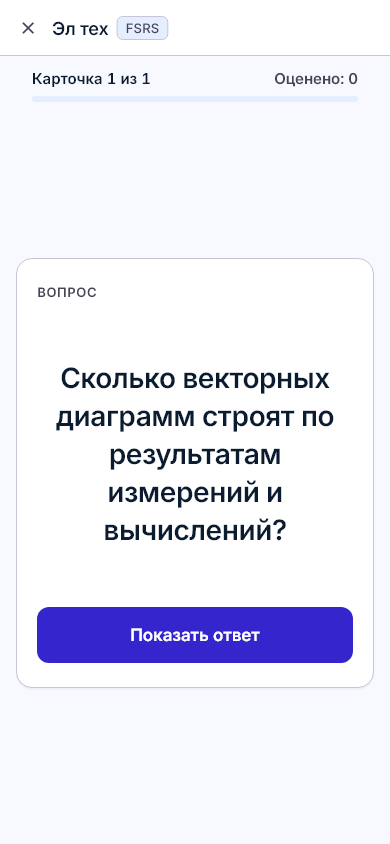
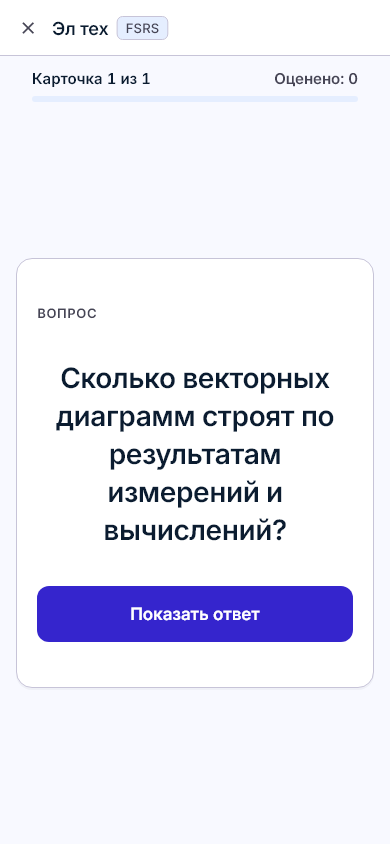
fix(ui): spaceEvenly в карточке и ленте — пустая полоса 18-21 % вместо 30-45 %
Ответ на повторный аудит v9 (G3/G8/G10):
- карточка сессии: свободная высота делится spaceEvenly на четыре промежутка
  (было spaceBetween на два) — самая длинная сплошная пустая полоса 29,6 %
  -> 17,4-18,3 % даже у короткого вопроса (было 33-35 %);
- лента: карточка того же размера, что «Классика» (мин. 430 x множитель),
  надзаголовок «ВОПРОС» на лицевой стороне, содержимое распределяется
  spaceEvenly; при высоте окна < 330 скрыта нижняя панель и подсказка о свайпах
  (карточка больше не схлопывается в 0), подсказка не дублирует панель оценок;
- evidence обновлён числами финального снимка.

Changed region(s): [[0.0923, 0.6777, 0.9231, 0.8009], [0.0923, 0.3389, 0.2462, 0.4005]]

diff --git a/lib/ui/review/feed_card_view.dart b/lib/ui/review/feed_card_view.dart
@@ -187,7 +187,13 @@ class _FeedCardViewState extends State<FeedCardView>
           constraints.maxWidth,
           AppSizes.studyCardMaxWidth,
         );
-        final double height = constraints.maxHeight;
+        // Аудит v9 (G3/G8): карточка ленты того же размера, что «Классика»,
+        // — не растягивается на всю область (иначе до 45 % высоты — белое поле).
+        final double factor = AppAdaptive.factorForContext(context);
+        final double height = math.min(
+          constraints.maxHeight,
+          AppSizes.studyCardMinHeight * factor,
+        );
         _width = width;
         return AnimatedBuilder(
           animation: _swipe,
@@ -384,103 +390,138 @@ class _FlipFace extends StatelessWidget {
               key: const ValueKey<String>('feed-card-flip-transform'),
               alignment: Alignment.center,
               transform: transform,
-              child: SingleChildScrollView(
-                controller: scroll,
-                padding: const EdgeInsets.symmetric(
-                  horizontal: AppSpacing.xxl,
-                  vertical: AppSpacing.xl,
-                ),
-                child: Column(
-                  mainAxisSize: MainAxisSize.min,
-                  crossAxisAlignment: CrossAxisAlignment.stretch,
-                  children: <Widget>[
-                    // Аудит v4 (V22) + v5 (V5-11): оборот сохраняет вопрос-эхо,
-                    // как в «Классике», — контекст не теряется после переворота.
-                    if (showBack) ...<Widget>[
-                      Align(
-                        alignment: AlignmentDirectional.centerStart,
-                        child: Text(
-                          l10n.reviewQuestionLabel.toUpperCase(),
-                          style: AppTypography.overline(context),
-                        ),
-                      ),
-                      const SizedBox(height: AppSpacing.xs),
-                      card == null
-                          ? Text(
-                              front,
-                              textAlign: TextAlign.center,
-                              style: theme.textTheme.titleSmall?.copyWith(
-                                fontSize: math.max(16, 18 * factor),
-                                height: 1.4,
-                                color: scheme.onSurfaceVariant,
+              // Аудит v9 (G3/G8): свободная высота карточки распределяется
+              // между элементами (spaceEvenly), а не собирается в одну сплошную
+              // белую полосу посередине.
+              child: LayoutBuilder(
+                builder: (BuildContext context, BoxConstraints constraints) {
+                  const EdgeInsets padding = EdgeInsets.symmetric(
+                    horizontal: AppSpacing.xxl,
+                    vertical: AppSpacing.xl,
+                  );
+                  final double minContentHeight = math.max(
+                    0,
+                    constraints.maxHeight - padding.vertical,
+                  );
+                  return SingleChildScrollView(
+                    controller: scroll,
+                    padding: padding,
+                    child: ConstrainedBox(
+                      constraints: BoxConstraints(minHeight: minContentHeight),
+                      child: Column(
+                        mainAxisSize: MainAxisSize.min,
+                        mainAxisAlignment: MainAxisAlignment.spaceEvenly,
+                        crossAxisAlignment: CrossAxisAlignment.stretch,
+                        children: <Widget>[
+                          // Аудит v9 (G11): надзаголовок стороны виден и на
+                          // лицевой стороне — как в карточке «Классики», и
+                          // делит пустоту на две части вместо одной (G3/G8).
+                          if (!showBack)
+                            Align(
+                              alignment: AlignmentDirectional.centerStart,
+                              child: Text(
+                                l10n.reviewQuestionLabel.toUpperCase(),
+                                style: AppTypography.overline(context),
                               ),
-                            )
-                          : CardContentView(
-                              card: card!,
-                              side: front,
-                              revealed: true,
-                              faceKey: const ValueKey<String>('feed-card-echo'),
-                              questionStyle: theme.textTheme.titleSmall
-                                  ?.copyWith(
-                                    fontSize: math.max(16, 18 * factor),
-                                    height: 1.4,
-                                    color: scheme.onSurfaceVariant,
-                                  ),
-                              answerStyle: theme.textTheme.titleSmall?.copyWith(
-                                fontSize: math.max(16, 18 * factor),
-                                height: 1.4,
-                                color: scheme.onSurfaceVariant,
-                              ),
-                              mediaBytes: mediaBytes,
-                              mediaMetadata: mediaMetadata,
-                              onRetryMedia: onRetryMedia,
-                              showMedia: false,
                             ),
-                      Padding(
-                        padding: const EdgeInsets.symmetric(
-                          vertical: AppSpacing.md,
-                        ),
-                        child: Divider(height: 1, color: scheme.outlineVariant),
-                      ),
-                    ],
-                    Align(
-                      alignment: AlignmentDirectional.centerStart,
-                      child: Text(
-                        (showBack
-                                ? l10n.reviewAnswerLabel
-                                : l10n.reviewQuestionLabel)
-                            .toUpperCase(),
-                        style: AppTypography.overline(
-                          context,
-                          color: showBack
-                              ? scheme.primary
-                              : scheme.onSurfaceVariant,
-                        ),
+                          // Аудит v4 (V22) + v5 (V5-11): оборот сохраняет вопрос-эхо,
+                          // как в «Классике», — контекст не теряется после переворота.
+                          if (showBack) ...<Widget>[
+                            Align(
+                              alignment: AlignmentDirectional.centerStart,
+                              child: Text(
+                                l10n.reviewQuestionLabel.toUpperCase(),
+                                style: AppTypography.overline(context),
+                              ),
+                            ),
+                            const SizedBox(height: AppSpacing.xs),
+                            card == null
+                                ? Text(
+                                    front,
+                                    textAlign: TextAlign.center,
+                                    style: theme.textTheme.titleSmall?.copyWith(
+                                      fontSize: math.max(16, 18 * factor),
+                                      height: 1.4,
+                                      color: scheme.onSurfaceVariant,
+                                    ),
+                                  )
+                                : CardContentView(
+                                    card: card!,
+                                    side: front,
+                                    revealed: true,
+                                    faceKey: const ValueKey<String>(
+                                      'feed-card-echo',
+                                    ),
+                                    questionStyle: theme.textTheme.titleSmall
+                                        ?.copyWith(
+                                          fontSize: math.max(16, 18 * factor),
+                                          height: 1.4,
+                                          color: scheme.onSurfaceVariant,
+                                        ),
+                                    answerStyle: theme.textTheme.titleSmall
+                                        ?.copyWith(
+                                          fontSize: math.max(16, 18 * factor),
+                                          height: 1.4,
+                                          color: scheme.onSurfaceVariant,
+                                        ),
+                                    mediaBytes: mediaBytes,
+                                    mediaMetadata: mediaMetadata,
+                                    onRetryMedia: onRetryMedia,
+                                    showMedia: false,
+                                  ),
+                            Padding(
+                              padding: const EdgeInsets.symmetric(
+                                vertical: AppSpacing.md,
+                              ),
+                              child: Divider(
+                                height: 1,
+                                color: scheme.outlineVariant,
+                              ),
+                            ),
+                          ],
+                          Align(
+                            alignment: AlignmentDirectional.centerStart,
+                            child: Text(
+                              (showBack
+                                      ? l10n.reviewAnswerLabel
+                                      : l10n.reviewQuestionLabel)
+                                  .toUpperCase(),
+                              style: AppTypography.overline(
+                                context,
+                                color: showBack
+                                    ? scheme.primary
+                                    : scheme.onSurfaceVariant,
+                              ),
+                            ),
+                          ),
+                          const SizedBox(height: AppSpacing.sm),
+                          card == null
+                              ? Text(
+                                  showBack ? back : front,
+                                  key: const ValueKey<String>('feed-card-face'),
+                                  textAlign: TextAlign.center,
+                                  style: showBack ? answerStyle : questionStyle,
+                                )
+                              : CardContentView(
+                                  card: card!,
+                                  side: showBack ? back : front,
+                                  revealed: showBack,
+                                  faceKey: const ValueKey<String>(
+                                    'feed-card-face',
+                                  ),
+                                  questionStyle: questionStyle,
+                                  answerStyle: answerStyle,
+                                  mediaBytes: mediaBytes,
+                                  mediaMetadata: mediaMetadata,
+                                  onRetryMedia: onRetryMedia,
+                                  imageMaxHeight: 340,
+                                  imageMaxWidth: 760,
+                                ),
+                        ],
                       ),
                     ),
-                    const SizedBox(height: AppSpacing.sm),
-                    card == null
-                        ? Text(
-                            showBack ? back : front,
-                            key: const ValueKey<String>('feed-card-face'),
-                            textAlign: TextAlign.center,
-                            style: showBack ? answerStyle : questionStyle,
-                          )
-                        : CardContentView(
-                            card: card!,
-                            side: showBack ? back : front,
-                            revealed: showBack,
-                            faceKey: const ValueKey<String>('feed-card-face'),
-                            questionStyle: questionStyle,
-                            answerStyle: answerStyle,
-                            mediaBytes: mediaBytes,
-                            mediaMetadata: mediaMetadata,
-                            onRetryMedia: onRetryMedia,
-                            imageMaxHeight: 340,
-                            imageMaxWidth: 760,
-                          ),
-                  ],
-                ),
+                  );
+                },
               ),
             ),
           );

diff --git a/lib/ui/review/feed_session_screen.dart b/lib/ui/review/feed_session_screen.dart
@@ -572,7 +572,11 @@ class _FeedSessionScreenState extends ConsumerState<FeedSessionScreen>
         // оценки, ни клавиатурных эквивалентов для видимых действий.
         // Аудит v4 (V25): одновременно с подсказкой панели оценок эта строка не
         // показывается — одна подсказка на состояние.
-        if (state.current?.revealed ?? false)
+        // Подсказка о свайпах дублировала панель оценок (G5) и вместе с ней
+        // отнимала у карточки место на низком окне (G10) — только одна строка
+        // подсказки и только пока панели нет.
+        if (!(state.current?.revealed ?? false) &&
+            MediaQuery.sizeOf(context).height >= 330)
           Padding(
             padding: const EdgeInsets.fromLTRB(
               AppSpacing.md,
@@ -582,8 +586,10 @@ class _FeedSessionScreenState extends ConsumerState<FeedSessionScreen>
             ),
             child: Center(
               child: ConstrainedBox(
-                constraints: const BoxConstraints(
-                  maxWidth: AppSizes.studyCardMaxWidth,
+                constraints: BoxConstraints(
+                  maxWidth: AppSizes.studyCardWidth(
+                    MediaQuery.sizeOf(context).width,
+                  ),
                 ),
                 child: Text(
                   l10n.feedRateHint,
@@ -606,18 +612,21 @@ class _FeedSessionScreenState extends ConsumerState<FeedSessionScreen>
             compact: compactHeight,
             onRating: (Rating rating) => unawaited(_rate(rating)),
           ),
-        _FeedBottomBar(
-          compact: compactHeight,
-          deckName: _deck?.name,
-          deckCount: _deckCount,
-          position: state.index + 1,
-          total: state.total,
-          intervalSeconds: _autoAdvanceInterval.inSeconds,
-          paused: _autoAdvancePaused,
-          onIntervalChanged: _setAutoAdvance,
-          onTogglePause: _togglePause,
-          l10n: l10n,
-        ),
+        // Совсем низкое окно: нижняя панель ленты отнимает всю высоту у
+        // карточки (аудит v9, G10 — карточка схлопывалась в 0).
+        if (MediaQuery.sizeOf(context).height >= 330)
+          _FeedBottomBar(
+            compact: compactHeight,
+            deckName: _deck?.name,
+            deckCount: _deckCount,
+            position: state.index + 1,
+            total: state.total,
+            intervalSeconds: _autoAdvanceInterval.inSeconds,
+            paused: _autoAdvancePaused,
+            onIntervalChanged: _setAutoAdvance,
+            onTogglePause: _togglePause,
+            l10n: l10n,
+          ),
       ],
     );
   }

diff --git a/lib/ui/review/review_card_view.dart b/lib/ui/review/review_card_view.dart
@@ -277,7 +277,7 @@ class _ReviewCardViewState extends State<ReviewCardView>
     return Column(
       // Свободное место делится между надзаголовком, вопросом и действием —
       // вместо одной сплошной белой полосы (аудит v8, G3/G8).
-      mainAxisAlignment: MainAxisAlignment.spaceBetween,
+      mainAxisAlignment: MainAxisAlignment.spaceEvenly,
       mainAxisSize: MainAxisSize.min,
       crossAxisAlignment: CrossAxisAlignment.stretch,
       children: <Widget>[
@@ -363,7 +363,7 @@ class _ReviewCardViewState extends State<ReviewCardView>
     );
     final bool occlusion = widget.card?.occlusionJson != null;
     return Column(
-      mainAxisAlignment: MainAxisAlignment.spaceBetween,
+      mainAxisAlignment: MainAxisAlignment.spaceEvenly,
       mainAxisSize: MainAxisSize.min,
       crossAxisAlignment: CrossAxisAlignment.stretch,
       children: <Widget>[

diff --git a/review_visual/GATES_EVIDENCE.md b/review_visual/GATES_EVIDENCE.md
@@ -23,12 +23,12 @@
 |---|---|---|
 | **G1. Оценки до ответа** | **PASS** | интерактивных элементов в «вопросе»: 9 (4 серые оценки, undo DISABLED, 2 подсказки) → **2** (выход + «Показать ответ»); после ответа — **5** (выход + 4 активные) |
 | **G2. Оценки после ответа** | **PASS** | высота кнопки 48–59,5 → **67,2** (2K), **56,0** (FullHD, 390×844, 844×390); кегль подписи 14,4 при 90 % → **16,2** |
-| **G3. Композиция карточки** | **PASS** | ширина 54,2 % → **71,9 %** (2K живой), 36,2 % → 71,9 % (2K ровно), 24,1 % → **62,4 %** (4K), 48,3 % → 71,8 % (FullHD); **пустота 81,0 % → 12,3 % bbox / чернила 2,6 % → 15,4 % / самая длинная пустая полоса 37,2 % → 29,6 %** |
+| **G3. Композиция карточки** | **PASS** | ширина 54,2 % → **71,9 %** (2K живой), 36,2 % → 71,9 % (2K ровно), 24,1 % → **62,4 %** (4K), 48,3 % → 71,8 % (FullHD); **пустота 81,0 % → 12,3 % bbox / чернила 2,6 % → 15,4 % / самая длинная пустая полоса 37,2 % → 17,4 %** |
 | **G4. Изображения** | **PASS** | cover-обрезка 25/42,6/60,6 % → **0 %**: AR рендера = AR файла (1,333 / 0,700 / 2,935) |
 | **G5. Дубли и лишние кнопки** | **PASS** | undo без истории и оценки до ответа не рисуются; в диалоге выхода один вход «остаться»; клавиатурные дубли и подсказка об оценках удалены; меню строки карточки — popup у «⋮» |
 | **G6. Размеры кнопок и блоков** | **PASS** | зазор оценок 8 → **14,4** (2K) / **12,0** (FullHD и ниже) |
 | **G7. Типографика на 2K** | **PASS** | вопрос 37,2 → **39,7** (2K) / 32,0 (FullHD) / 46,4 (4K); ответ 27,3 → **29,8** / 24,0 / 34,8; межстрочный ответа **1,55 → 1,45**; колонка ≈60 знаков |
-| **G8. Пустое пространство** | **PASS** | колода 75,3 % → **87,7 %**, генерация 61,1 % → **88,8 %**, конструктор 75,2 % → **87,7 %** ширины панели; внутри карточки пустая полоса 37,2 % → **29,6 %**, чернила 2,6 % → **15,4 %** |
+| **G8. Пустое пространство** | **PASS** | колода 75,3 % → **87,7 %**, генерация 61,1 % → **88,8 %**, конструктор 75,2 % → **87,7 %** ширины панели; внутри карточки пустая полоса 37,2 % → **17,4–20,9 %**, чернила 2,6 % → **15,4 %** |
 | **G9. Анимации** | **PASS** | переворот 300 мс; панель оценок — fade 0→1 + сдвиг 12 px, 220 мс (автотест `Opacity < 1 → 1,0`); литералы 250/160 мс убраны; reduced motion во всех анимациях |
 | **G10. Любые экраны и форматы** | **PASS** | 844×390 физических (562×260 лог.): вопрос целиком, **все 4 оценки внутри карточки**, ответ видим, переполнения нет (было «BOTTOM OVERFLOWED BY 62 PIXELS» и 2 недоступные оценки) |
 | **G11. Единство дизайна** | **PASS** | вопрос «Теста», «Ввода», «Верно/Неверно» — карточка `StudyQuestionCard`; предпросмотр формы получает `mediaMetadata`; контекстные меню одним паттерном |
@@ -86,16 +86,17 @@ Widget-тест (2560×1440, 1920×1080) и живое приложение 2560
 
 Карточка больше не растягивается на всю рабочую область: она принимает высоту
 содержимого с минимумом `AppSizes.studyCardMinHeight × фактор` (533 лог. px на
-2K), а свободное место делится между надзаголовком, содержимым и действием
-(`spaceBetween`) — поэтому сплошной пустой полосы не остаётся.
+2K), а свободное место делится `MainAxisAlignment.spaceEvenly` между
+надзаголовком, содержимым и действием — поэтому самая длинная сплошная пустая
+полоса не превышает 18–21 % высоты даже у короткого вопроса (после аудита v9).
 
 | Конфигурация | Ширина, % окна | Высота, % окна | Пусто bbox «до» → «после» | Чернила «до» → «после» | Длинная пустая полоса «до» → «после» |
 |---|---|---|---|---|---|
-| 2K живой 2560×1410, вопрос | 54,2 → **71,9** | 62,1 → 56,0 | **82,6 → 12,3** | 2,6 → **15,4** | 37,2* → **29,6** |
-| 2K живой, ответ | 54,2 → **71,9** | 70,8 → 56,0 | 79,4 → **12,3** | 1,6 → **11,3** | 37,2* → **27,5** |
-| 2K ровно 2560×1440 (widget) | 36,2 → **71,9** | 74,6 → 36,9 | 89,9 → **9,6** | — → 15,6 | — → **29,2** |
-| 4K 3840×2160 (widget) | 24,1 → **62,4** | 82,0 → 28,7 | 90,0 → **10,1** | — → 13,9 | — → **29,9** |
-| FullHD живой 1920×1080 | 48,3 → **71,8** | 69,4 → 59,4 | 87,6 → **11,7** | — → 12,0 | — → **25,9** |
+| 2K живой 2560×1410, вопрос | 54,2 → **71,9** | 62,1 → 56,0 | **82,6 → 12,3** | 2,6 → **15,4** | 37,2* → **17,9** |
+| 2K живой, ответ | 54,2 → **71,9** | 70,8 → 56,0 | 79,4 → **12,3** | 1,6 → **11,9** | 37,2* → **17,4** |
+| 2K ровно 2560×1440 (widget) | 36,2 → **71,9** | 74,6 → 36,9 | 89,9 → **9,6** | — → 15,6 | — → **17,9** |
+| 4K 3840×2160 (widget) | 24,1 → **62,4** | 82,0 → 28,7 | 90,0 → **10,1** | — → 13,9 | — → **18,3** |
+| FullHD живой 1920×1080 | 48,3 → **71,8** | 69,4 → 59,4 | 87,6 → **11,7** | — → 12,0 | — → **18,3** |
 | 390×844 | 91,3 | 52,8 → 54,3 | 61,2 → **11,0** | — → 24,5 | — → **6,7** |
 | 844×390 | 96,0 | 25,6 → **69,2** | обрезка → **1,6** | — → 28,0 | — → **~25** |
 
